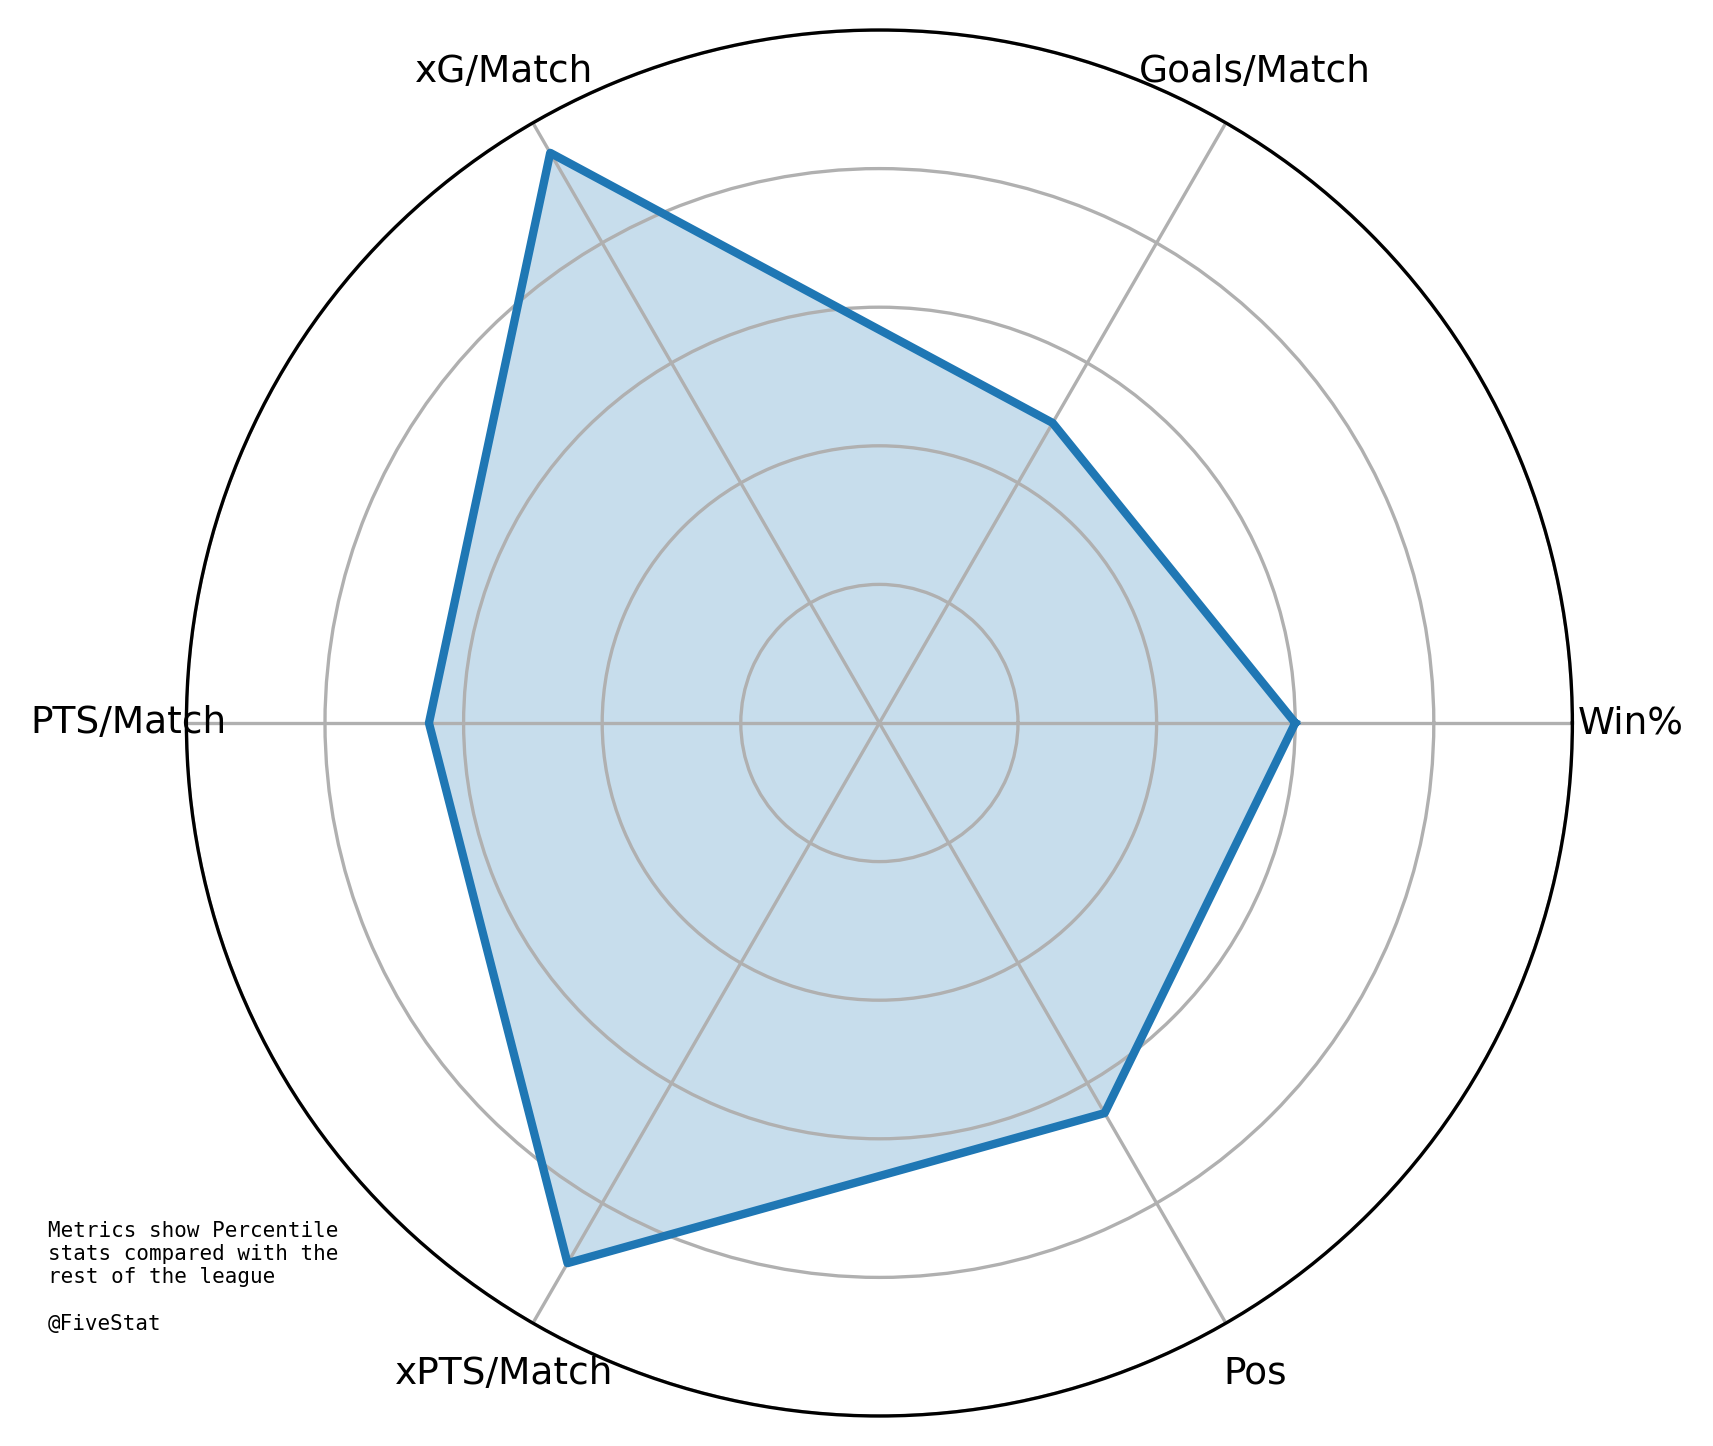
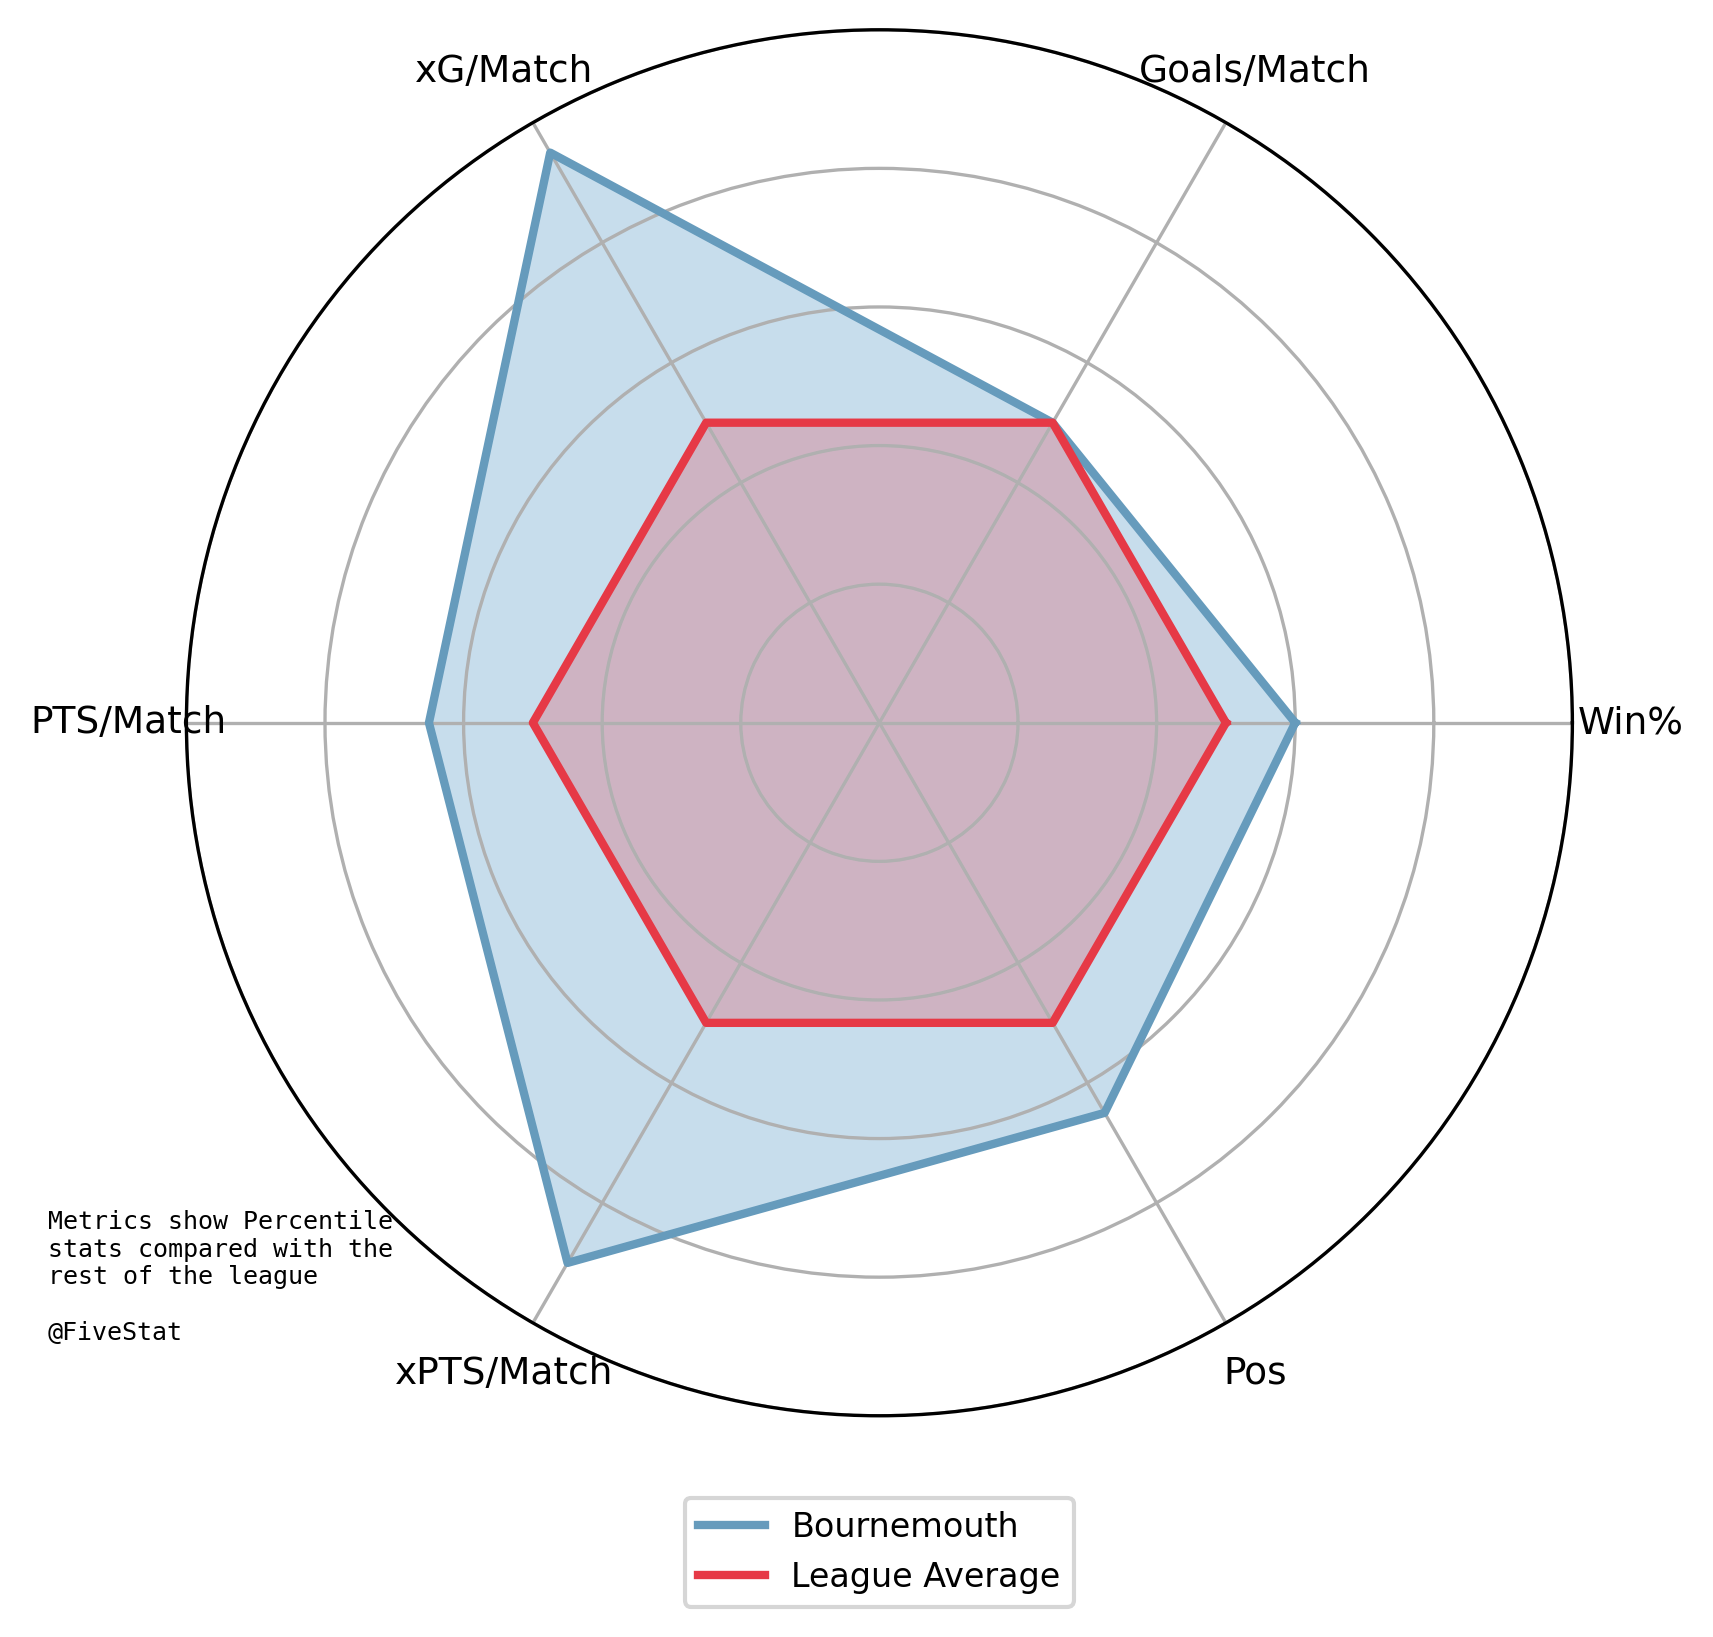
Force update of all visual and data table assets

diff --git a/templates/team_page.html b/templates/team_page.html
@@ -181,6 +181,49 @@
 
 
 
+        <div class="fixture-toggle-wrapper">
+            <div class="fixture-header" onclick="toggleFixtureSection('simulated')">
+                <span class="dropdown-spacer"></span>
+                <h3>Simulated Final League Table</h3>
+                <span class="dropdown-icon" id="simulated-icon"><i class="fas fa-chevron-down"></i></span>
+            </div>
+            <div id="simulated-section" class="fixture-body">
+                <div class="table-container">
+                    <table id="simulatedTeamTable">
+                        <thead>
+                            <tr>
+                                <th>Pos</th>
+                                <th class="bold-left-border">Team</th>
+                                {% for p in range(1, num_sim_positions + 1) %}
+                                <th>{{ p }}</th>
+                                {% endfor %}
+                                <th class="bold-left-border">Final xPTS</th>
+                            </tr>
+                        </thead>
+                        <tbody>
+                            {% for t in simulated_table %}
+                            <tr class="{% if t.Team == team.name %}highlight{% endif %}">
+                                <td>{{ loop.index0 + sim_start + 1 }}</td>
+                                <td class="bold-left-border"><a href="{{ url_for('team_page', team_name=t["Team"]) }}">{{ t["Team"] }}</a></td>
+                                {% for p in range(1, num_sim_positions + 1) %}
+                                    {% set prob = t[p|string] * 100 %}
+                                    {% set shade = prob / 50 %}
+                                    <td class="small-text" style="background-color: rgba(76, 0, 153, {{ shade }}); color: white;">
+                                        {{ prob | round(1) }}%
+                                    </td>
+                                {% endfor %}
+                                <td class="bold-left-border">{{ t["Final xPTS"] | round(1) }}</td>
+                            </tr>
+                            {% endfor %}
+                        </tbody>
+                    </table>
+                </div>
+            </div>
+        </div>
+        
+
+
+
 
 
 

diff --git a/static/styles.css b/static/styles.css
@@ -422,6 +422,7 @@ tr:hover {
     border-bottom: #666 solid 1.5px;
 }
 
+
 /* Pagination */
 .pagination {
     margin: 20px auto;
@@ -848,11 +849,13 @@ input:checked + .slider:before {
     margin: 0 auto;
 }
 
-.league-table .highlight {
+.league-table .highlight,
+#simulatedTeamTable .highlight {
     border-top: 3px solid #3f007d;
     border-bottom: 3px solid #3f007d;
     font-weight: bold;
 }
+
 
 .table-scroll {
     overflow-x: auto;

diff --git a/generate_radars.py b/generate_radars.py
@@ -194,8 +194,19 @@ for _, row in df.iterrows():
     ax.set_facecolor("#f4f4f9")
     ax.set_ylim(0, 100)  # ✅ Fix the radar radius to full 0–100
 
-    ax.plot(angles, values, linewidth=2, linestyle='solid')
+    ax.plot(angles, values, linewidth=2, linestyle='solid', label=team, color='#669bbc')
     ax.fill(angles, values, alpha=0.25)
+
+    # Add League Average line at 50% (styled like team radar)
+    avg_values = [50] * len(labels)
+    avg_values += avg_values[:1]  # Close the loop
+
+    # Solid red line + filled area
+    ax.plot(angles, avg_values, color='#e63946', linewidth=2, linestyle='solid', label='League Average')
+    ax.fill(angles, avg_values, color='#e63946', alpha=0.25)
+
+    ax.legend(loc='lower center', bbox_to_anchor=(0.5, -0.15), fontsize=8)
+
 
     # ✅ Only use first 6 angles for grid ticks and labels
     ax.set_xticks(angles[:-1])
@@ -207,7 +218,7 @@ for _, row in df.iterrows():
     ax.text(
         x=-0.1, y=0.1, 
         s='Metrics show Percentile\nstats compared with the\nrest of the league\n\n@FiveStat', 
-        fontsize=5, ha='left', va='center', transform=ax.transAxes, fontfamily='monospace'
+        fontsize=6, ha='left', va='center', transform=ax.transAxes, fontfamily='monospace'
     )
 
     # 5. Save the image
@@ -221,5 +232,5 @@ cols = ["Team", "G", "xG", "MP", "Goals/Match", "Goals/Match_pct", "xG/Match", "
 print(df[cols].sort_values("Goals/Match", ascending=False))
 
 
-if __name__ == '__main__':
-    app.run(debug=True)
+#if __name__ == '__main__':
+#    app.run(debug=True)

diff --git a/app.py b/app.py
@@ -584,6 +584,25 @@ def team_page(team_name):
     # Form
     team_data["form"] = get_team_form(fixture_df, team_name)
 
+    # Load simulated league table data
+    simulated_path = "data/tables/simulated_league_positions.csv"
+    simulated_df = pd.read_csv(simulated_path)
+    simulated_df.rename(columns={"Unnamed: 0": "Team"}, inplace=True)
+
+    # Ensure consistent team names
+    simulated_df["Team"] = simulated_df["Team"].apply(str)
+    sim_team_row = simulated_df[simulated_df["Team"] == team_name]
+
+    if not sim_team_row.empty:
+        sim_index = sim_team_row.index[0]
+        sim_start = max(0, sim_index - 3)
+        sim_end = sim_index + 4
+        simulated_partial = simulated_df.iloc[sim_start:sim_end].to_dict(orient="records")
+        num_sim_positions = len([col for col in simulated_df.columns if col.isnumeric()])
+    else:
+        simulated_partial = []
+        num_sim_positions = 20  # default fallback
+
     return render_template(
         "team_page.html",
         team=team_data,
@@ -601,7 +620,10 @@ def team_page(team_name):
         past_fixtures_by_gw=past_fixtures_by_gw,
         previous_gameweeks=sorted(past_fixtures_by_gw.keys()),  # ✅ ADD THIS
         upcoming_gameweeks=upcoming_gameweeks,
-        next_opponents_by_gw=next_opponents_by_gw
+        next_opponents_by_gw=next_opponents_by_gw,
+        sim_start=sim_start,
+        simulated_table=simulated_partial,
+        num_sim_positions=num_sim_positions
     )
 
 
